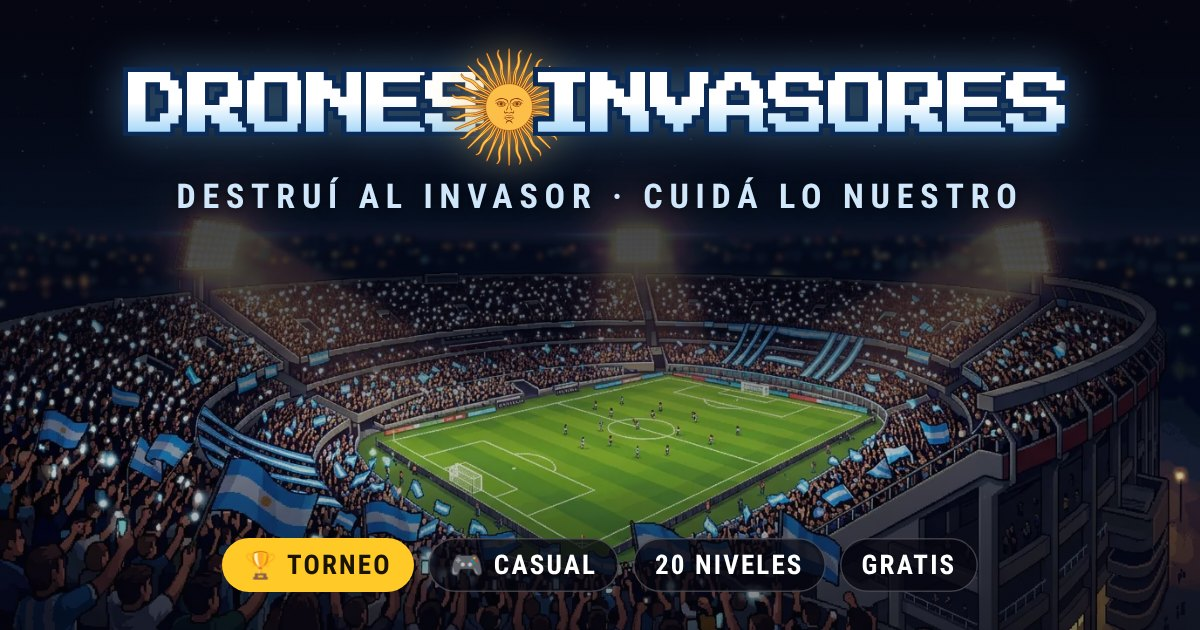
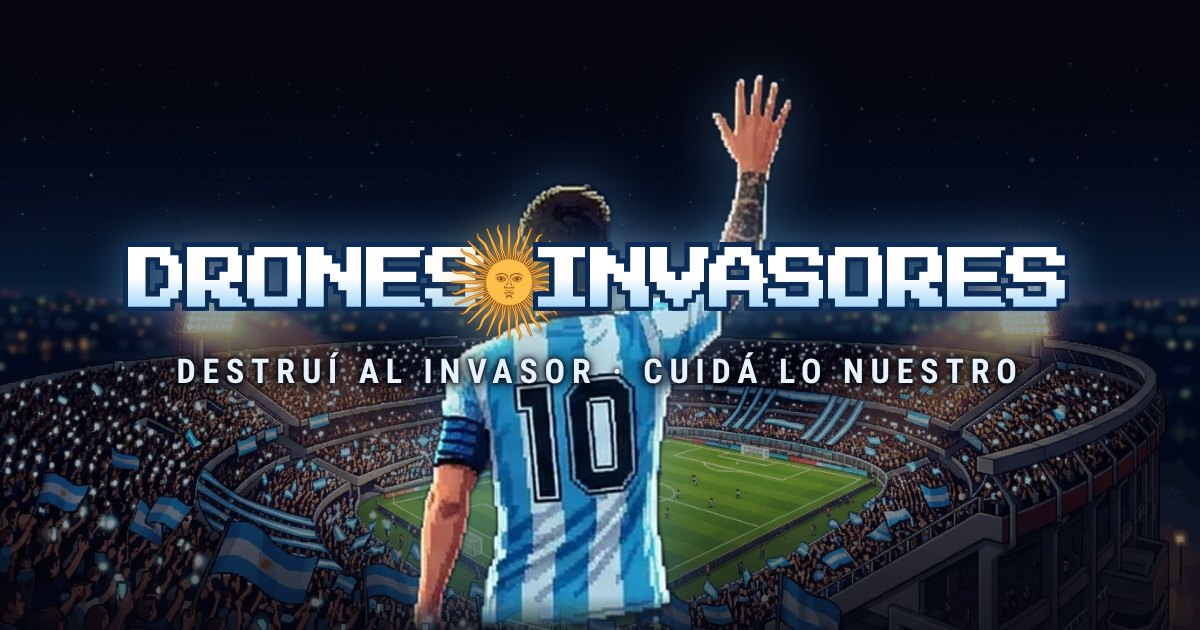
Imagen para compartir el link: estadio 10% más abajo, el 10 de espaldas (de la cintura para arriba, sin fondo) detrás del título
Claude-Session: https://claude.ai/code/session_016QSMpeYCF8eRxitQgLEdpS

diff --git a/index.html b/index.html
@@ -32,7 +32,7 @@
 <meta property="og:image:type" content="image/jpeg">
 <meta property="og:image:width" content="1200">
 <meta property="og:image:height" content="630">
-<meta property="og:image:alt" content="Drones Invasores: el título del juego con el Sol de Mayo sobre el estadio de noche. Modos Torneo y Casual, 20 niveles, gratis">
+<meta property="og:image:alt" content="Drones Invasores: el título del juego con el Sol de Mayo, delante del 10 de la Selección saludando de espaldas, en el estadio de noche">
 <meta property="og:locale" content="es_AR">
 <meta property="og:site_name" content="Drones Invasores">
 <meta name="twitter:card" content="summary_large_image">
